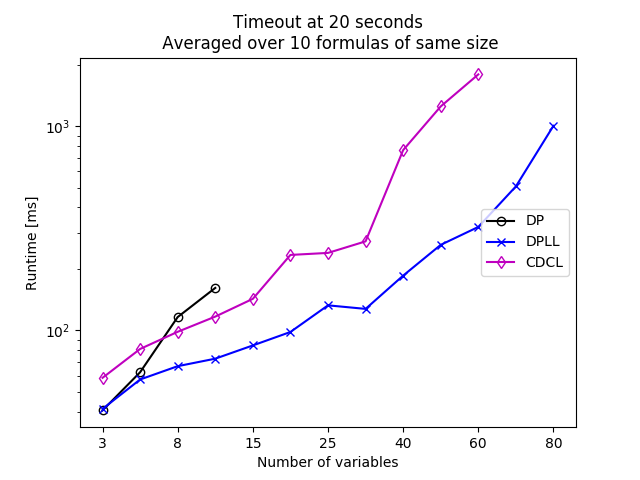
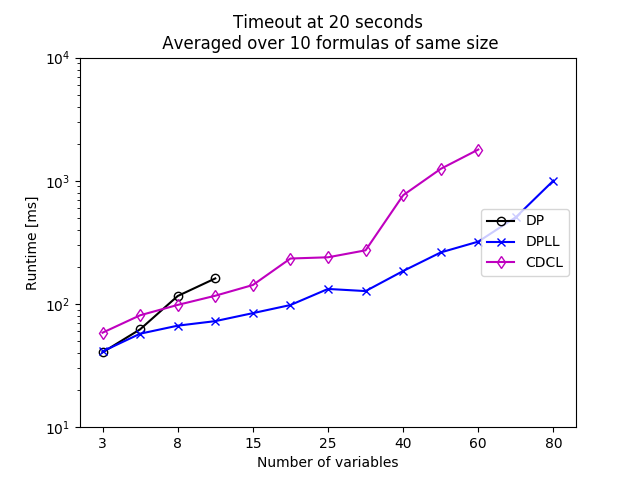
made y axis of sat/unsat graphs the same for easier comparison; adapted analysis to new results

diff --git a/SatSolverProject/EvaluationGraphScript.py b/SatSolverProject/EvaluationGraphScript.py
@@ -80,6 +80,8 @@ def xToNVar(x, pos):
 fmt = ticker.FuncFormatter(xToNVar)
 ax.xaxis.set_major_formatter(fmt)
 
+plt.ylim([10,10000])
+
 titleText = "Timeout at " + timeI
 if AGGREGATE_N > 1:
     titleText += "\n Averaged over " + str(AGGREGATE_N) + \

diff --git a/result/README.md b/result/README.md
@@ -17,20 +17,20 @@ which are unsat. We will now look at the results in more detail.
 For 3sat the set of the number of variables we used was
 \[3,5,8,10,15,20,25,30,40,50,60,70,80,90,100,120\]. The number of clauses increase
 accordingly. So for each of those values we generated 10 satisfiable and 10
-unsatisfiable formulas, giving a total number of 320 formulas. We let each
-algorithm run twice on each formula, to then average the runtime. We set a
-timeout of 20 seconds, so if an algorithm took longer than that, we cancelled
-it and would record it as failed (those will just be missing entries in the
-graph). The reason we used this rather small limit, is that even so running all
-the formulas took a standard quadcore desktop computer around 8 hours.
+unsatisfiable formulas, giving a total number of 320 formulas. We then let every
+algorithm run on each formula. We set a timeout of 20 seconds, so if an
+algorithm took longer than that, we cancelled it and would record it as failed
+(those will just be missing entries in the graph). The reason we used this
+rather small limit, is that even so running all the formulas took a standard
+quadcore desktop computer around 8 hours.
 
 The following graph shows the result of the experiments:
 
-![](3sat_allresults_2runs_i20s.png)
+![](3sat_allresults_i20s_v2.png)
 
 The x axis shows the number of variables of the formula, the y axis the runtime
 in milliseconds on a logarithmic scale. Note that the x axis is not a linear
-scale, but rather staying at a value for 20 runs, then jumping to the next
+scale, but rather staying at a value for 20 runs, before jumping to the next
 number of variables.
 
 The first thing we notice, is that all algorithms show an exponential increase
@@ -49,37 +49,33 @@ CDCL, where we just pick the first occurring one. The reasoning was that with
 learning we would converge quickly anyway, but this seems not to cancel out.
 
 DP can keep up to formulas with around 20 variables and 90 clauses before
-going over the 20 second limit. CDCL goes up to about 50, DPLL to 80.
+going over the 20 second limit. DPLL and CDCL go up to about 80.
 
 For the next two graphs, we seperated the satisfiable from the unsatisfiable
 formulas, and only look at the average runtime over the ten formulas of same
 size. We required all ten formulas to have completed in under 20 seconds to
 appear on the graph.
 
-![](3sat_aggregated_10_tests_sat.png) | ![](3sat_aggregated_10_tests_unsat.png)
+![](3sat_aggregated_10_tests_sat_v2.png) | ![](3sat_aggregated_10_tests_unsat_v2.png)
 ---|---
 only sat formulas | only unsat formulas
 
-We can see that in general unsat problems are harder, as we can handle fewer
-variables within the 20 second limit. This is because we can stop the search as
+We can see that in general unsat problems are harder, the average runtime is
+quite a bit higher. This is because we can stop the search as
 soon as we find a valid assignment in sat problems, but in unsat we have to
 explore more.
-
-Other than that we can see that on unsat problems, CDCL seems to lose its
-advantage over DP. This is because ???Jan???.
 
 ### 5sat
 
 For 5sat we used the same set of number of variables, but only went up to 50
-(\[3,5,8,10,15,20,25,30,40,50\]). Since there are fewer formulas to test, we
-averaged each formula over 5 runs, while keeping the timeout at 20 seconds.
+(\[3,5,8,10,15,20,25,30,40,50\]). We again have the timeout at 20 seconds.
 
 Here are the results:
 
-![](5sat_allresults_5runs_i20s.png)
+![](5sat_allresults_i20s_v2.png)
 
 We see a very similar picture as for 3sat, but now we cut out even sooner, at
-about 25 formulas for DPLL and only 15 for DP and CDCL. This is not only because
+about 40 formulas for DPLL and CDCL and only 15 for DP. This is not only because
 we increased the number of literals per clause, but also because we used a
 larger factor to map the number of variables to number of clauses.
 
@@ -139,5 +135,5 @@ six minutes until it filled all the four gigabytes of the JVM.
 
 All in all the performance of our SAT solver is pretty underwhelming. We didn't
 do much in the way of optimizing performance. We don't use any smart heuristics
-for quicker convergence, and the scala implementation is designed more to be
+for quicker convergence, and the Scala implementation is designed more to be
 readable and correct, rather than optimized for performance.
